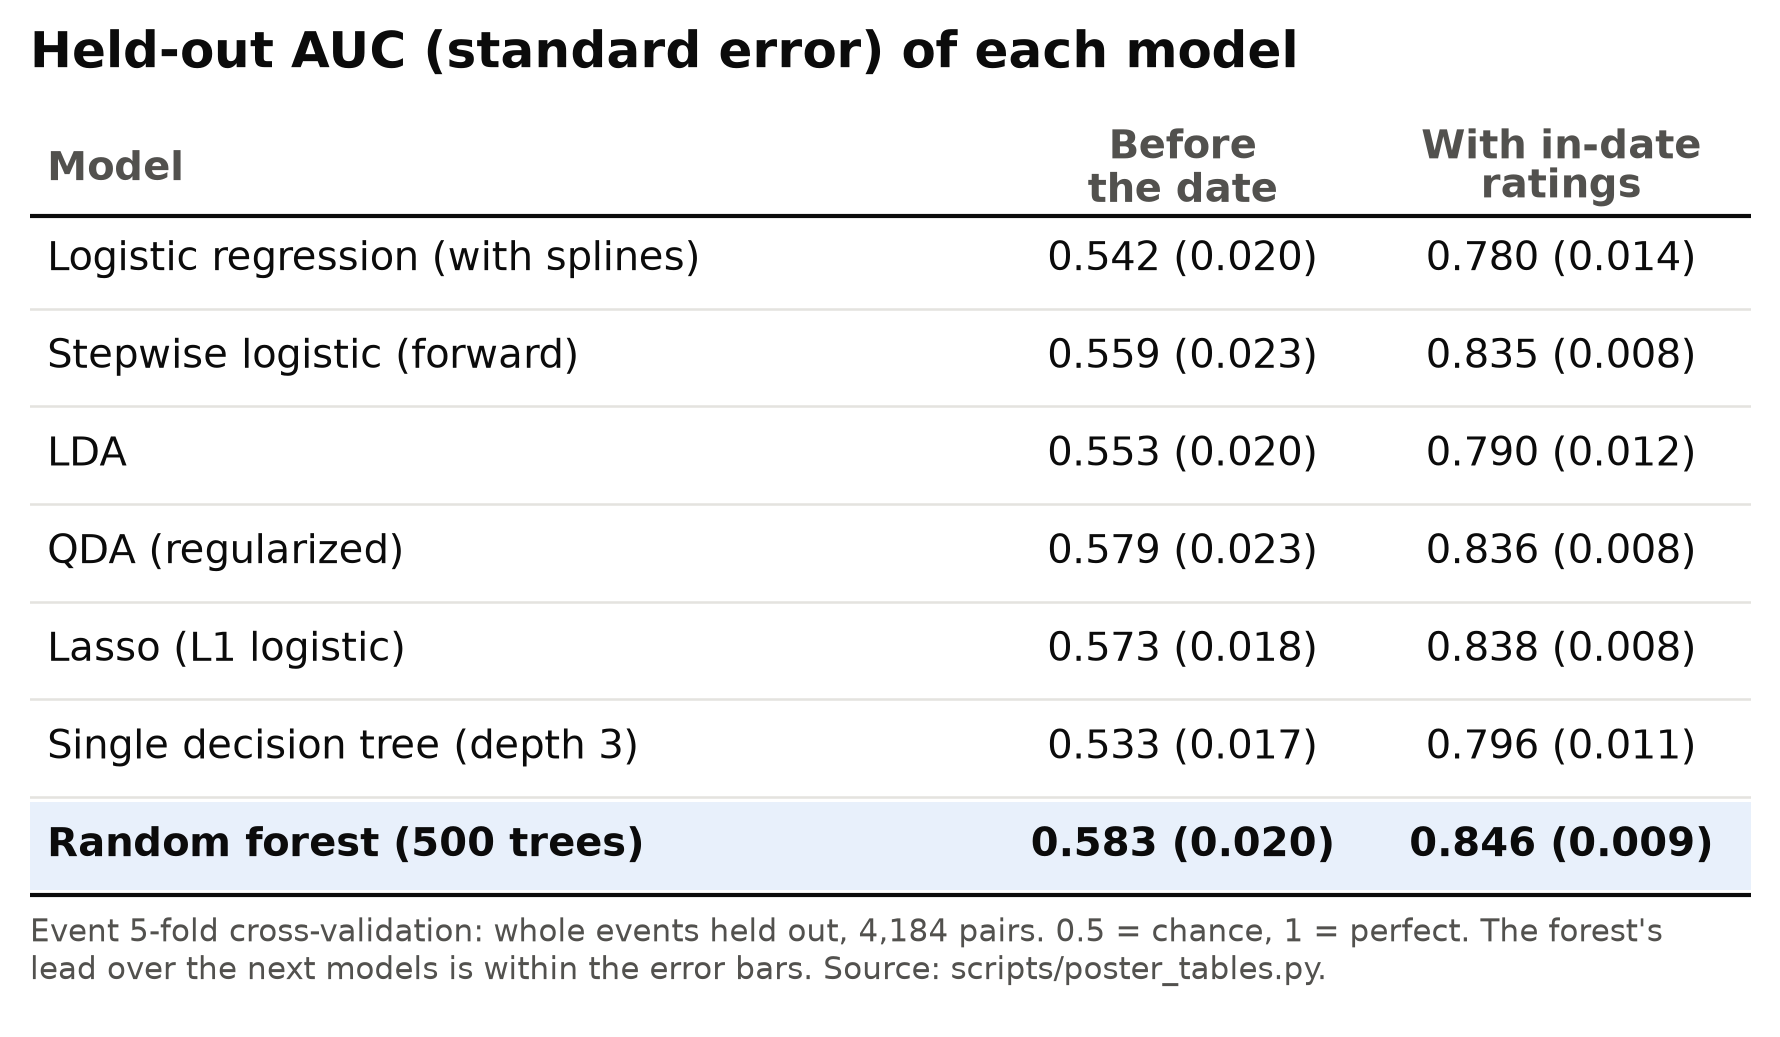
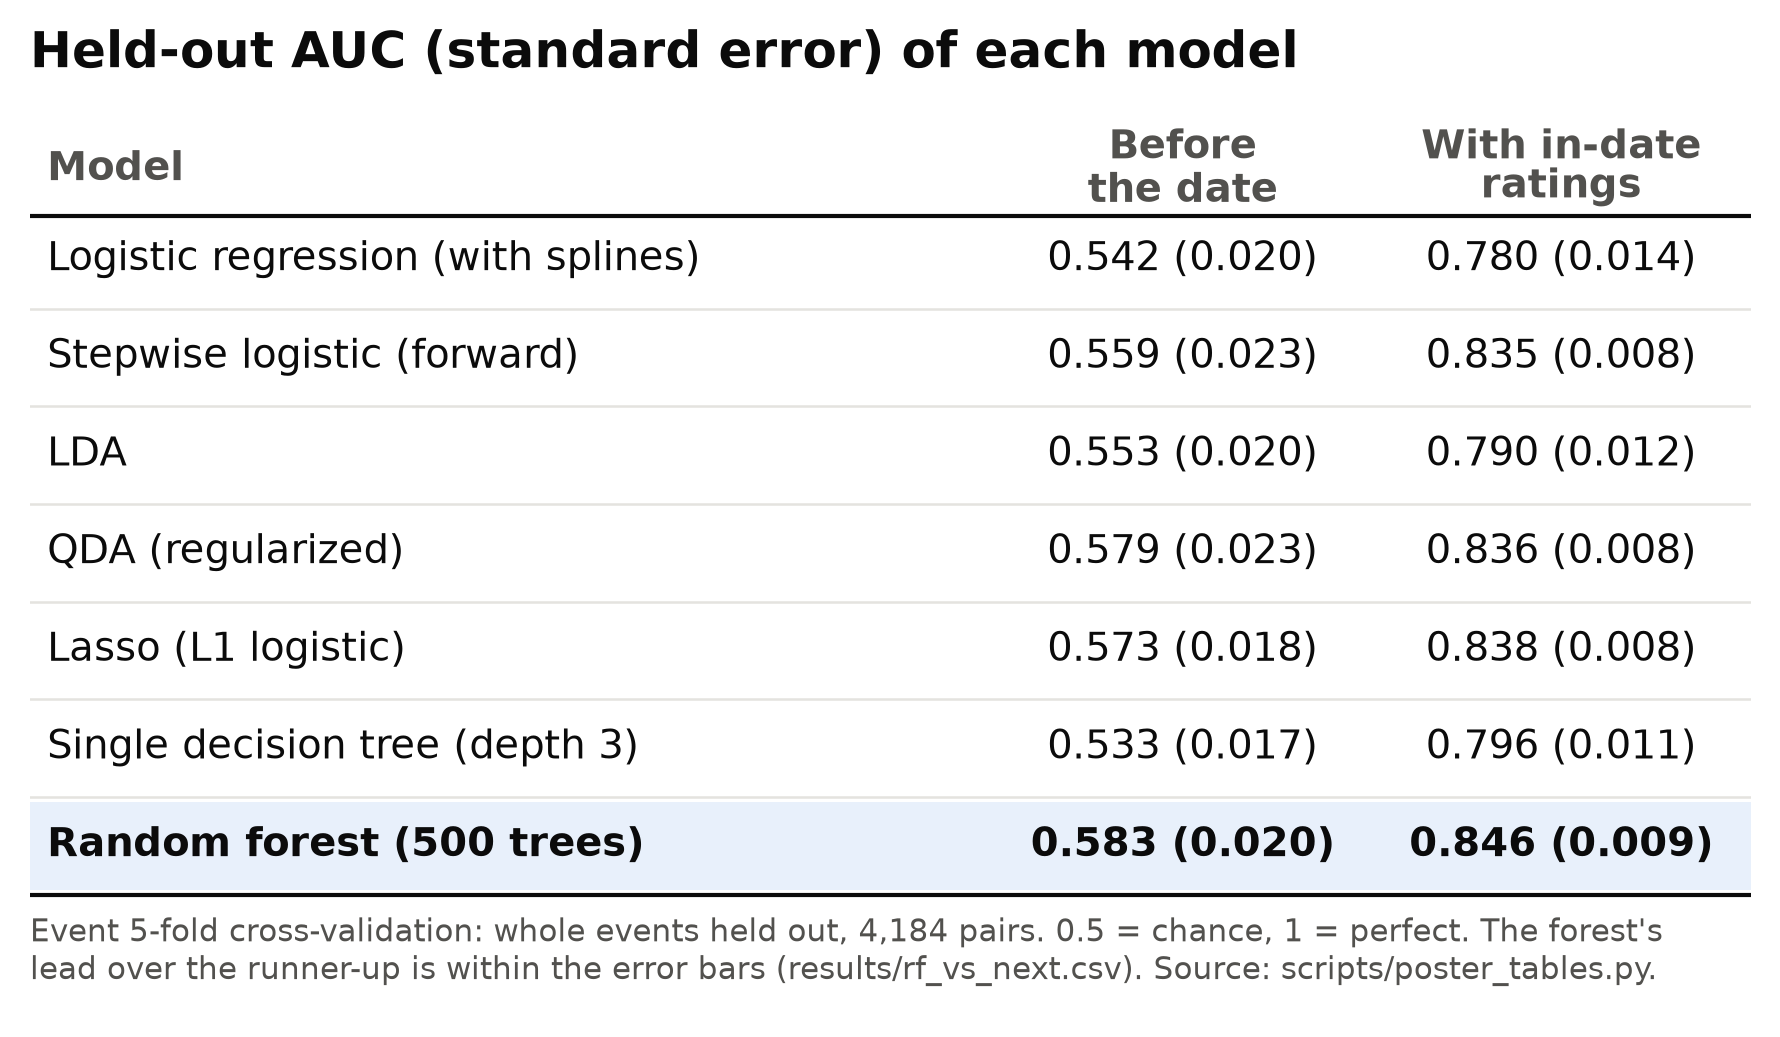
Poster middle column: native tables, poster-sized tree, and a check of the forest's lead
poster_tables.py writes report/poster/middle_column.tex (Technical Implementation, Performance by Model, What the
Best Model Uses) with every number from the results files. tree_figure.py adds a poster version of the tree
(yes/no questions, exact split points). rf_vs_next.py: forest minus runner-up AUC is within the error bars
(pre: minus QDA 0.004, 90% CI -0.016 to 0.024; pre+date: minus lasso 0.008, -0.003 to 0.019; minus QDA 0.010,
0.001 to 0.019).

Changed region(s): [[0.1545, 0.9257, 0.927, 0.9566]]

diff --git a/scripts/tree_figure.py b/scripts/tree_figure.py
@@ -1,7 +1,8 @@
 """One classification tree, drawn for the poster and slides, with its held-out accuracy next to the forest's.
 
 Input : data/pairs.csv, data/feature_sets.json, results/part1_models_metrics.csv (the forest's AUC, for comparison)
-Output: results/tree_figure_pre_date.png and results/tree_figure_pre.png (the depth-3 tree fitted to all 4,184 dyads),
+Output: results/tree_figure_pre_date.png and results/tree_figure_pre.png (the depth-3 tree fitted to all 4,184 dyads;
+        *_poster.png versions without title or notes),
         results/tree_figure_cv.csv (held-out AUC of single trees of depth 1 to 8, event 5-fold CV)
 Seeds : event folds 20261006 (modeling.FOLD_SEED); tree random_state 20261117.
 
@@ -13,7 +14,7 @@ The depth was fixed at 3 for readability before looking at the results; the CV t
 each depth do on held-out events, which is the fair comparison with the forest.
 Run from the repository root: python scripts/tree_figure.py
 """
-import sys, json, pathlib
+import sys, json, pathlib, textwrap
 import numpy as np, pandas as pd
 from scipy import stats
 from sklearn.tree import DecisionTreeClassifier
@@ -71,7 +72,21 @@ def edge_words(col, t):
     7 (almost never), so a lower code means more often."""
     if col.endswith(("_date", "_go_out")):
         return f"{FREQ[int(t)]} or more often", f"{FREQ[int(t) + 1]} or less often"
-    return f"≤ {t:.3g}", f"> {t:.3g}"
+    return f"≤ {fmt(t)}", f"> {fmt(t)}"
+
+
+def fmt(t):
+    """Split points: ratings split at quarter points, shown exactly; preference weights to one decimal."""
+    return f"{t:g}" if abs(4 * t - round(4 * t)) < 1e-9 else f"{t:.1f}"
+
+
+def question(col, t):
+    """Poster node text: the split as a yes/no question (yes = the right branch)."""
+    if col.endswith(("_date", "_go_out")):
+        return f"{name(col)}: {FREQ[int(t) + 1]} or less often?"
+    if "=" in col or col.startswith(("same_", "f_pre_", "m_pre_", "f_date_m", "m_date_m")):
+        return f"{name(col)}?"
+    return f"{name(col)} > {fmt(t)}?"
 
 
 def held_out(D, y, ev, depth):
@@ -83,7 +98,8 @@ def held_out(D, y, ev, depth):
     return M.auc(p, y), np.sqrt(M.auc_clustered_var(p, y, ev))
 
 
-def draw(tree, cols, y, feature_set, cv_auc, rf_auc):
+def draw(tree, cols, y, feature_set, cv_auc, rf_auc, poster=False):
+    """poster=True: no title or notes (the poster caption carries them), wrapped labels and larger relative text."""
     T = tree.tree_
     leaves, pos = [], {}
     def walk(n, d):
@@ -93,8 +109,14 @@ def draw(tree, cols, y, feature_set, cv_auc, rf_auc):
         pos[n] = ((a + b) / 2, d); return pos[n][0]
     walk(0, 0)
     nl, depth = len(leaves), max(d for _, d in pos.values())
-    fig, ax = plt.subplots(figsize=(1.75 * nl + 0.6, 1.35 * depth + 1.6))
-    ax.set_xlim(-0.6, nl - 0.4); ax.set_ylim(-(depth + 0.4), 0.75); ax.axis("off")
+    fs_node, fs_leaf, fs_edge = (10, 10, 9.5) if poster else (8.5, 9, 8.5)
+    if poster:
+        fig, ax = plt.subplots(figsize=(1.05 * nl + 0.2, 1.1 * depth + 0.9))
+        ax.set_xlim(-0.55, nl - 0.45); ax.set_ylim(-(depth + 0.38), 0.3)
+    else:
+        fig, ax = plt.subplots(figsize=(1.75 * nl + 0.6, 1.35 * depth + 1.6))
+        ax.set_xlim(-0.6, nl - 0.4); ax.set_ylim(-(depth + 0.4), 0.75)
+    ax.axis("off")
     base = y.mean()
     for n, (x, d) in pos.items():
         rate, cnt = T.value[n][0][1], int(T.n_node_samples[n])
@@ -103,18 +125,24 @@ def draw(tree, cols, y, feature_set, cv_auc, rf_auc):
                 cx, cd = pos[child]
                 ax.plot([x, cx], [-d - 0.2, -cd + 0.2], color=REF, linewidth=1.2, zorder=1)
                 c = cols[T.feature[n]]
-                if "=" in c or c.startswith(("same_", "f_pre_", "m_pre_", "f_date_m", "m_date_m")):
+                if poster or "=" in c or c.startswith(("same_", "f_pre_", "m_pre_", "f_date_m", "m_date_m")):
                     word = "no" if child == T.children_left[n] else "yes"
-                ax.text((x + cx) / 2, (-d - 0.2 - cd + 0.2) / 2, word, ha="center", va="center", fontsize=8.5,
+                ax.text((x + cx) / 2, (-d - 0.2 - cd + 0.2) / 2, word, ha="center", va="center", fontsize=fs_edge,
                         color=INK2, bbox=dict(boxstyle="round,pad=0.15", fc="white", ec="none"), zorder=3)
             text = name(cols[T.feature[n]])
-            ax.text(x, -d, f"{text}\n{cnt:,} pairs, {rate:.0%} match", ha="center", va="center", fontsize=8.5,
+            text = textwrap.fill(question(cols[T.feature[n]], T.threshold[n]), 22 if d < depth - 1 else 18) if poster else f"{text}\n{cnt:,} pairs, {rate:.0%} match"
+            ax.text(x, -d, text, ha="center", va="center", fontsize=fs_node,
                     color=INK, zorder=2, bbox=dict(boxstyle="round,pad=0.35", fc="white", ec=REF, lw=1))
         else:
             fc = SEQ(min(rate / 0.6, 1.0))
             tc = "white" if rate > 0.3 else INK
-            ax.text(x, -d, f"{rate:.0%}\nmatch\n{cnt:,} pairs", ha="center", va="center", fontsize=9, color=tc,
-                    fontweight="bold", zorder=2, bbox=dict(boxstyle="round,pad=0.4", fc=fc, ec="none"))
+            ax.text(x, -d, f"{rate:.0%}\n{cnt:,} pairs" if poster else f"{rate:.0%}\nmatch\n{cnt:,} pairs", ha="center",
+                    va="center", fontsize=fs_leaf, color=tc,
+                    fontweight="bold", zorder=2, bbox=dict(boxstyle=f"round,pad={0.28 if poster else 0.4}", fc=fc, ec="none"))
+    fn = {"pre+date": "pre_date", "pre": "pre"}[feature_set]
+    if poster:
+        fig.savefig(RES / f"tree_figure_{fn}_poster.png", dpi=300, bbox_inches="tight", facecolor="white")
+        plt.close(fig); return
     title = {"pre+date": "One decision tree, using the in-date ratings",
              "pre": "One decision tree, using only sign-up answers"}[feature_set]
     ax.text(-0.6, 0.72, title, fontsize=12, fontweight="bold", color=INK, va="top")
@@ -125,7 +153,6 @@ def draw(tree, cols, y, feature_set, cv_auc, rf_auc):
              "pre": "Interests and self-ratings are on 1-10 scales; stated weights are points out of 100."}[feature_set]
     fig.text(0.01, 0.02, f"{units} A missing answer follows the branch learned for it in training. "
              "Source: scripts/tree_figure.py.", fontsize=7.5, color=INK2, va="top")
-    fn = {"pre+date": "pre_date", "pre": "pre"}[feature_set]
     fig.savefig(RES / f"tree_figure_{fn}.png", dpi=300, bbox_inches="tight", facecolor="white")
     plt.close(fig)
 
@@ -144,6 +171,7 @@ def main():
         rf = met[(met.spec == M.HEADLINE.label) & (met.feature_set == fs) & (met.model == "rf") & (met.dyads == len(y))].auc.iloc[0]
         tree = DecisionTreeClassifier(max_depth=DEPTH, min_samples_leaf=MIN_LEAF, random_state=TREE_SEED).fit(D, y)
         draw(tree, list(D.columns), y, fs, cv, rf)
+        draw(tree, list(D.columns), y, fs, cv, rf, poster=True)
         T = tree.tree_
         print(f"{fs}: depth-{DEPTH} tree, held-out AUC {cv[0]:.4f} (SE {cv[1]:.4f}); forest {rf:.4f}")
         for n in range(T.node_count):

diff --git a/scripts/poster_tables.py b/scripts/poster_tables.py
@@ -2,7 +2,8 @@
 
 Input : results/part1_models_metrics.csv, results/tree_figure_cv.csv (scripts/tree_figure.py),
         results/rf_importance.csv (scripts/rf_importance.py)
-Output: results/poster_tables_models.png / .csv, results/poster_tables_predictors.png / .csv
+Output: results/poster_tables_models.png / .csv, results/poster_tables_predictors.png / .csv,
+        report/poster/middle_column.tex (the poster's middle column, with both tables as native LaTeX)
 Seeds : none here (the inputs record theirs).
 
 Model table: held-out AUC (event 5-fold CV, 4,184 dyads, headline specification) with event-clustered SEs, before
@@ -42,7 +43,7 @@ def model_table():
     draw(cells, ["Model", "Before\nthe date", "With in-date\nratings"], "poster_tables_models",
          "Held-out AUC (standard error) of each model",
          "Event 5-fold cross-validation: whole events held out, 4,184 pairs. 0.5 = chance, 1 = perfect. The forest's\n"
-         "lead over the next models is within the error bars. Source: scripts/poster_tables.py.",
+         "lead over the runner-up is within the error bars (results/rf_vs_next.csv). Source: scripts/poster_tables.py.",
          highlight=len(cells) - 1, widths=(0.56, 0.22, 0.22))
     return df
 
@@ -96,10 +97,101 @@ def draw(cells, header, name, title, note, highlight=None, section_rows=(), widt
     plt.close(fig)
 
 
+SHORT = {"Logistic regression (with splines)": "Logistic (with splines)", "Stepwise logistic (forward)": "Stepwise logistic",
+         "Lasso (L1 logistic)": "Lasso", "Single decision tree (depth 3)": "Single tree (depth 3)",
+         "Random forest (500 trees)": "Random forest"}
+COLUMN = r"""%% Middle column of the poster, written by scripts/poster_tables.py (do not edit the numbers by hand).
+%% Needs tree_figure_pre_date_poster.png in the Overleaf project.
+\begin{column}{\colwidth}
+
+\begin{myblock}{Technical Implementation}
+\begin{enumerate}
+  \item \textbf{Two feature sets.} \emph{Before the date:} sign-up answers plus six pair features (age gap,
+  interest similarity, same field, same goal, preference fit each way). \emph{With in-date ratings:} adds the
+  16 ratings the two gave each other.
+  \item \textbf{No peeking.} Missing-value fills, scaling and tuning are chosen inside the training events by an
+  inner cross-validation.
+  \item \textbf{Error bars by event.} Pairs at one event share people, so standard errors treat each of the
+  21 events as a cluster.
+\end{enumerate}
+\end{myblock}
+
+\begin{myblock}{Performance by Model}
+Held-out AUC (standard error); 0.5 = chance.
+\begin{center}\small
+MODELS_TABLE
+\end{center}
+\begin{itemize}
+  \item Before the date every model is near chance (AUC PRE_LO--PRE_HI).
+  \item The four-minute date adds about GAIN to the AUC.
+  \item The forest leads, but its lead over the runner-up is within the error bars.
+\end{itemize}
+\end{myblock}
+
+\begin{myblock}{What the Best Model Uses}
+\begin{figure}
+\centering
+\includegraphics[width=0.92\linewidth]{tree_figure_pre_date_poster.png}
+\caption{One 3-level tree fitted to all pairs; leaves give the share that matched. Held out it scores AUC
+TREE_AUC; the 500-tree forest scores RF_AUC.}
+\end{figure}
+\vspace{-0.3cm}
+Predictors ranked by how far the forest's held-out AUC falls when each is shuffled:
+\begin{center}\small
+PREDICTORS_TABLE
+\end{center}
+\vspace{-0.2cm}
+Liking matters most, then fun and attractiveness. Shuffling all in-date ratings at once drops the AUC by
+GROUP_DATE; all sign-up answers, by GROUP_PRE.
+\end{myblock}
+
+\end{column}
+"""
+
+
+def poster_column(models, n_date=5, n_pre=3):
+    """Native LaTeX tables and the poster's middle column (report/poster/middle_column.tex)."""
+    best = models.auc_pre_date.idxmax()
+    rows = []
+    for i, r in models.iterrows():
+        b = (lambda t: f"\\textbf{{{t}}}") if i == best else (lambda t: t)
+        rows.append(f"{b(SHORT.get(r.model, r.model))} & {b(f'{r.auc_pre:.3f}')} ({r.se_pre:.3f}) & "
+                    f"{b(f'{r.auc_pre_date:.3f}')} ({r.se_pre_date:.3f}) \\\\")
+    mt = ("\\begin{tabular}{lcc}\n\\toprule\nModel & Before the date & With in-date ratings \\\\\n\\midrule\n"
+          + "\n".join(rows) + "\n\\bottomrule\n\\end{tabular}")
+    imp = pd.read_csv(RES / "rf_importance.csv")
+    single = imp[imp.kind != "group"]
+    g = imp[imp.kind == "group"].set_index(["feature_set", "predictor"]).auc_drop
+    lines = ["\\begin{tabular}{lc}", "\\toprule", "Predictor & AUC drop (SE) \\\\", "\\midrule"]
+    for fs, n, head in (("pre+date", n_date, "With in-date ratings"), ("pre", n_pre, "Before the date")):
+        d = single[single.feature_set == fs].sort_values("auc_drop", ascending=False).head(n)
+        if fs == "pre":
+            lines.append("\\midrule")
+        lines.append(f"\\multicolumn{{2}}{{l}}{{\\textit{{{head} (forest AUC {d.forest_auc.iloc[0]:.3f})}}}} \\\\")
+        lines += [f"{r.label} & {r.auc_drop:.3f} ({r.auc_drop_se:.3f}) \\\\" for r in d.itertuples()]
+    pt = "\n".join(lines + ["\\bottomrule", "\\end{tabular}"])
+    tree = pd.read_csv(RES / "tree_figure_cv.csv").query("depth == 3 and feature_set == 'pre+date'").auc.iloc[0]
+    rf = models.loc[best]
+    fill = dict(MODELS_TABLE=mt, PREDICTORS_TABLE=pt, PRE_LO=f"{models.auc_pre.min():.2f}", PRE_HI=f"{models.auc_pre.max():.2f}",
+                GAIN=f"{rf.auc_pre_date - rf.auc_pre:.2f}", TREE_AUC=f"{tree:.3f}", RF_AUC=f"{rf.auc_pre_date:.3f}",
+                GROUP_DATE=f"{g['pre+date', 'GROUP: all in-date ratings']:.2f}",
+                GROUP_PRE=f"{g['pre+date', 'GROUP: all sign-up answers']:.3f}")
+    text = COLUMN
+    for k, v in fill.items():
+        text = text.replace(k, v)
+    out = pathlib.Path("report/poster"); out.mkdir(parents=True, exist_ok=True)
+    (out / "middle_column.tex").write_text(text)
+    (out / "poster_tables_models.tex").write_text(mt + "\n")
+    (out / "poster_tables_predictors.tex").write_text(pt + "\n")
+
+
 def main():
-    print(model_table().to_string(index=False, float_format=lambda v: f"{v:.4f}"))
+    models = model_table()
+    print(models.to_string(index=False, float_format=lambda v: f"{v:.4f}"))
     if (RES / "rf_importance.csv").exists():
         predictor_table()
+        poster_column(models)
+        print("wrote report/poster/middle_column.tex and the two native tables")
         print(pd.read_csv(RES / "poster_tables_predictors.csv")[["feature_set", "table_rank", "label", "auc_drop", "auc_drop_se"]]
               .to_string(index=False, float_format=lambda v: f"{v:.4f}"))
     print("wrote results/poster_tables_models.png/.csv and results/poster_tables_predictors.png/.csv")

diff --git a/report/poster/middle_column.tex b/report/poster/middle_column.tex
@@ -1,0 +1,74 @@
+%% Middle column of the poster, written by scripts/poster_tables.py (do not edit the numbers by hand).
+%% Needs tree_figure_pre_date_poster.png in the Overleaf project.
+\begin{column}{\colwidth}
+
+\begin{myblock}{Technical Implementation}
+\begin{enumerate}
+  \item \textbf{Two feature sets.} \emph{Before the date:} sign-up answers plus six pair features (age gap,
+  interest similarity, same field, same goal, preference fit each way). \emph{With in-date ratings:} adds the
+  16 ratings the two gave each other.
+  \item \textbf{No peeking.} Missing-value fills, scaling and tuning are chosen inside the training events by an
+  inner cross-validation.
+  \item \textbf{Error bars by event.} Pairs at one event share people, so standard errors treat each of the
+  21 events as a cluster.
+\end{enumerate}
+\end{myblock}
+
+\begin{myblock}{Performance by Model}
+Held-out AUC (standard error); 0.5 = chance.
+\begin{center}\small
+\begin{tabular}{lcc}
+\toprule
+Model & Before the date & With in-date ratings \\
+\midrule
+Logistic (with splines) & 0.542 (0.020) & 0.780 (0.014) \\
+Stepwise logistic & 0.559 (0.023) & 0.835 (0.008) \\
+LDA & 0.553 (0.020) & 0.790 (0.012) \\
+QDA (regularized) & 0.579 (0.023) & 0.836 (0.008) \\
+Lasso & 0.573 (0.018) & 0.838 (0.008) \\
+Single tree (depth 3) & 0.533 (0.017) & 0.796 (0.011) \\
+\textbf{Random forest} & \textbf{0.583} (0.020) & \textbf{0.846} (0.009) \\
+\bottomrule
+\end{tabular}
+\end{center}
+\begin{itemize}
+  \item Before the date every model is near chance (AUC 0.53--0.58).
+  \item The four-minute date adds about 0.26 to the AUC.
+  \item The forest leads, but its lead over the runner-up is within the error bars.
+\end{itemize}
+\end{myblock}
+
+\begin{myblock}{What the Best Model Uses}
+\begin{figure}
+\centering
+\includegraphics[width=0.92\linewidth]{tree_figure_pre_date_poster.png}
+\caption{One 3-level tree fitted to all pairs; leaves give the share that matched. Held out it scores AUC
+0.796; the 500-tree forest scores 0.846.}
+\end{figure}
+\vspace{-0.3cm}
+Predictors ranked by how far the forest's held-out AUC falls when each is shuffled:
+\begin{center}\small
+\begin{tabular}{lc}
+\toprule
+Predictor & AUC drop (SE) \\
+\midrule
+\multicolumn{2}{l}{\textit{With in-date ratings (forest AUC 0.846)}} \\
+How much he liked her & 0.020 (0.004) \\
+How much she liked him & 0.019 (0.005) \\
+Her rating of him: fun & 0.013 (0.003) \\
+His rating of her: attractiveness & 0.012 (0.002) \\
+Her rating of him: attractiveness & 0.011 (0.003) \\
+\midrule
+\multicolumn{2}{l}{\textit{Before the date (forest AUC 0.583)}} \\
+Her stated weight on fun & 0.018 (0.007) \\
+How often he dates & 0.014 (0.006) \\
+Age gap & 0.006 (0.004) \\
+\bottomrule
+\end{tabular}
+\end{center}
+\vspace{-0.2cm}
+Liking matters most, then fun and attractiveness. Shuffling all in-date ratings at once drops the AUC by
+0.34; all sign-up answers, by 0.008.
+\end{myblock}
+
+\end{column}

diff --git a/scripts/rf_vs_next.py b/scripts/rf_vs_next.py
@@ -1,0 +1,49 @@
+"""Is the random forest's lead over the next-best models real? Paired AUC differences with event-clustered SEs.
+
+Input : data/pairs.csv, data/feature_sets.json, results/report_roc_predictions.csv (forest) and
+        results/report_roc_qda_predictions.csv (QDA), both from scripts/report_roc.py, results/part1_models_metrics.csv
+Output: results/rf_vs_next.csv
+Seeds : event folds 20261006; lasso random_state 20261206 + fold (part1_models.py, rerun here for its predictions).
+
+The forest, QDA and lasso predictions are the held-out predictions of the headline event 5-fold cross-validation (each
+checked against the stored AUC). The difference in AUC on the same dyads has the event-clustered SE of
+modeling.auc_diff_clustered_var (checked by event resampling in scripts/power.py: mean SE / SD 0.97); 90% intervals
+use t with 20 degrees of freedom.
+Run from the repository root: python scripts/rf_vs_next.py
+"""
+import sys, json, pathlib
+import numpy as np, pandas as pd
+from scipy import stats
+sys.path.insert(0, "scripts")
+import modeling as M
+from part1_models import cross_validate
+
+RES = pathlib.Path("results")
+T20 = stats.t.ppf(0.95, 20)
+
+
+def main():
+    pairs = pd.read_csv("data/pairs.csv"); sets = json.loads(pathlib.Path("data/feature_sets.json").read_text())
+    met = pd.read_csv(RES / "part1_models_metrics.csv")
+    met = met[(met.spec == M.HEADLINE.label) & (met.dyads == 4184)].set_index(["feature_set", "model"]).auc
+    rf_all = pd.read_csv(RES / "report_roc_predictions.csv"); qda_all = pd.read_csv(RES / "report_roc_qda_predictions.csv")
+    rows = []
+    for fs in ("pre", "pre+date"):
+        _, _, _, (prob, y, ev, _) = cross_validate(pairs, sets, M.HEADLINE, fs, ("lasso",), jobs=5)
+        rf, qda = rf_all[rf_all.feature_set == fs], qda_all[qda_all.feature_set == fs]
+        assert (rf.match.to_numpy() == y).all() and (qda.match.to_numpy() == y).all() and (rf.event.to_numpy() == ev).all()
+        scores = {"rf": rf.prob.to_numpy(), "qda": qda.prob.to_numpy(), "lasso": prob["lasso"]}
+        for m, s in scores.items():
+            assert abs(M.auc(s, y) - met[fs, m]) < 1e-9, (fs, m, M.auc(s, y), met[fs, m])
+        for other in ("qda", "lasso"):
+            d = M.auc(scores["rf"], y) - M.auc(scores[other], y)
+            se = np.sqrt(M.auc_diff_clustered_var(scores["rf"], scores[other], y, ev))
+            rows.append(dict(feature_set=fs, comparison=f"rf minus {other}", auc_difference=d, se=se,
+                             ci90_low=d - T20 * se, ci90_high=d + T20 * se, z=d / se, dyads=len(y), fold_scheme="event",
+                             fold_seed=M.FOLD_SEED))
+    out = pd.DataFrame(rows); out.to_csv(RES / "rf_vs_next.csv", index=False)
+    print(out.to_string(index=False, float_format=lambda v: f"{v:.4f}"))
+
+
+if __name__ == "__main__":
+    main()

diff --git a/report/poster/poster_tables_predictors.tex b/report/poster/poster_tables_predictors.tex
@@ -1,0 +1,17 @@
+\begin{tabular}{lc}
+\toprule
+Predictor & AUC drop (SE) \\
+\midrule
+\multicolumn{2}{l}{\textit{With in-date ratings (forest AUC 0.846)}} \\
+How much he liked her & 0.020 (0.004) \\
+How much she liked him & 0.019 (0.005) \\
+Her rating of him: fun & 0.013 (0.003) \\
+His rating of her: attractiveness & 0.012 (0.002) \\
+Her rating of him: attractiveness & 0.011 (0.003) \\
+\midrule
+\multicolumn{2}{l}{\textit{Before the date (forest AUC 0.583)}} \\
+Her stated weight on fun & 0.018 (0.007) \\
+How often he dates & 0.014 (0.006) \\
+Age gap & 0.006 (0.004) \\
+\bottomrule
+\end{tabular}

diff --git a/report/poster/poster_tables_models.tex b/report/poster/poster_tables_models.tex
@@ -1,0 +1,13 @@
+\begin{tabular}{lcc}
+\toprule
+Model & Before the date & With in-date ratings \\
+\midrule
+Logistic (with splines) & 0.542 (0.020) & 0.780 (0.014) \\
+Stepwise logistic & 0.559 (0.023) & 0.835 (0.008) \\
+LDA & 0.553 (0.020) & 0.790 (0.012) \\
+QDA (regularized) & 0.579 (0.023) & 0.836 (0.008) \\
+Lasso & 0.573 (0.018) & 0.838 (0.008) \\
+Single tree (depth 3) & 0.533 (0.017) & 0.796 (0.011) \\
+\textbf{Random forest} & \textbf{0.583} (0.020) & \textbf{0.846} (0.009) \\
+\bottomrule
+\end{tabular}
